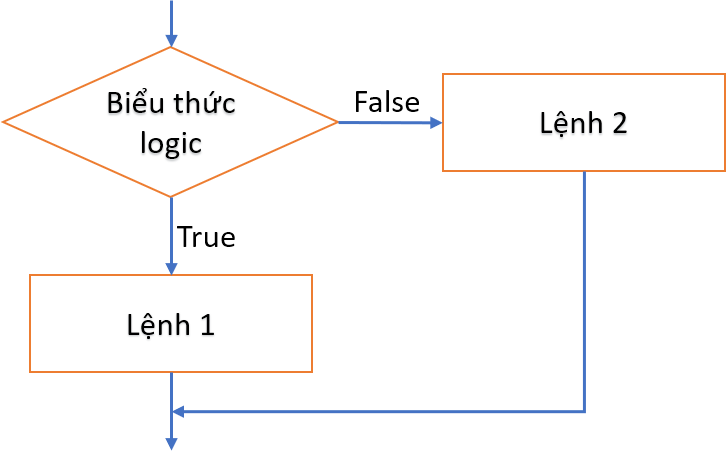
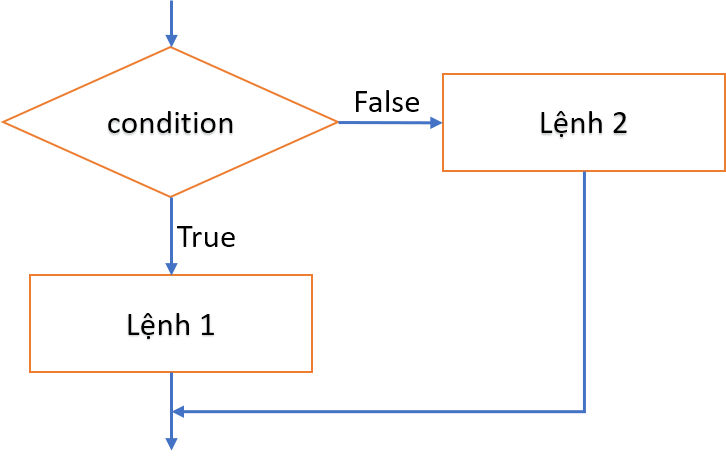
update

Changed region(s): [[0.1515, 0.181, 0.3333, 0.3621]]

diff --git a/03-control-structures/README.md b/03-control-structures/README.md
@@ -35,9 +35,15 @@
 <img src="figs/if1.png" width="40%">
 
 
-<img src="figs/if1_2.png">
+#### Cú pháp
+```c
+if(condition)
+    {
+        // Khối lệnh được thực hiện khi biểu thức condition != 0 (true)
+    }
+```
 
-Ví dụ:
+#### Ví dụ:
 ```c
 int a = 36;
 if(a % 2 == 0) printf("%d la so chan\n", a);
@@ -48,9 +54,19 @@ if(a % 2 == 0) printf("%d la so chan\n", a);
 <img src="figs/if2.png" width="55%">
 
 
-<img src="figs/if2_2.png">
+#### Cú pháp
+```c
+if(condition)
+    {
+        // Khối lệnh được thực hiện khi biểu thức condition != 0 (true)
+    }
+else
+    {
+        // Khối lệnh được thực hiện khi biểu thức condition == 0 (false)
+    }
+```
 
-Ví dụ:
+#### Ví dụ:
 ```c
 int a = 36;
 if(a % 2 == 0) printf("%d la so chan\n", a);
